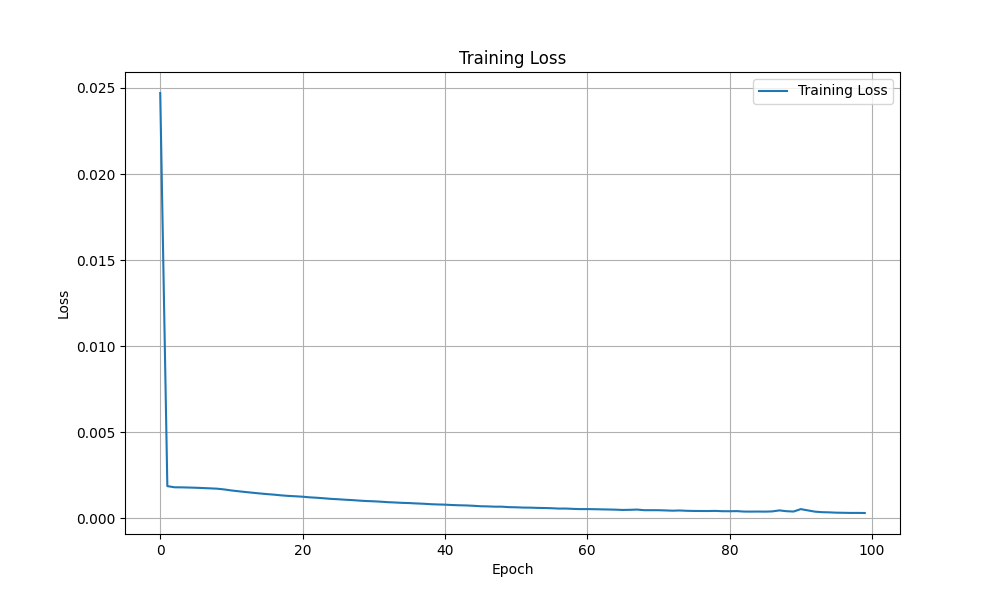
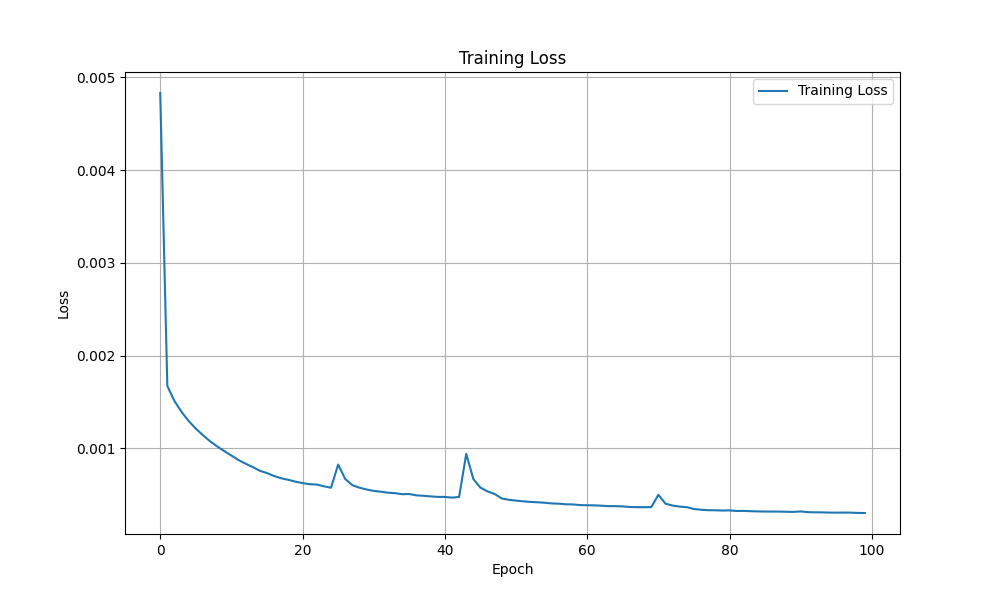
update

diff --git a/predict.py b/predict.py
@@ -21,6 +21,7 @@ def load_and_crop_image(image_path, detector, device):
         transform = transforms.Compose([
             transforms.Resize((160, 160)),
             transforms.ToTensor(),
+            transforms.Normalize(mean=[0.485, 0.456, 0.406], std=[0.229, 0.224, 0.225]),  # Normalize
         ])
         cropped_image = transform(cropped_image).unsqueeze(0).to(device)
         return cropped_image
@@ -32,7 +33,7 @@ def cosine_similarity(embedding1, embedding2):
     return F.cosine_similarity(embedding1, embedding2)
 
 def predict(image_path1, image_path2, student_model):
-    device = torch.device("cuda" if torch.cuda.is_available() else "cpu")
+    device = "cpu"
     
     # Initialize MTCNN
     mtcnn = MTCNN(keep_all=False, device=device)
@@ -56,13 +57,13 @@ def predict(image_path1, image_path2, student_model):
 if __name__ == "__main__":
     # Load the student model
     student_model = models.get_model(MODEL).eval()
-    device = torch.device("cuda" if torch.cuda.is_available() else "cpu")
+    device = "cpu"
     student_model.load_state_dict(torch.load('ckpt/mobilenet_v2_adam.pt'))
     student_model.to(device)
     
     # Example usage
     # image_path1 = 'sample/elon1.webp'
     image_path1 = 'sample/jeff2.jpg'
-    # image_path2 = 'sample/elon2.webp'
+    image_path2 = 'sample/elon2.webp'
     image_path2 = 'sample/jeff1.jpeg'
     predict(image_path1, image_path2, student_model)

diff --git a/train.py b/train.py
@@ -18,6 +18,7 @@ transform = transforms.Compose([
     transforms.RandomRotation(20),  # Auto rotate +/- 20 degrees
     transforms.ColorJitter(brightness=0.2, contrast=0.2),  # Auto brightness/contrast
     transforms.ToTensor(),
+    transforms.Normalize(mean=[0.485, 0.456, 0.406], std=[0.229, 0.224, 0.225]),  # Normalize
 ])
 dataset = datasets.ImageFolder(DATA_SOURCE, transform=transform)
 dataloader = DataLoader(dataset, batch_size=BATCH_SIZE, shuffle=True)
